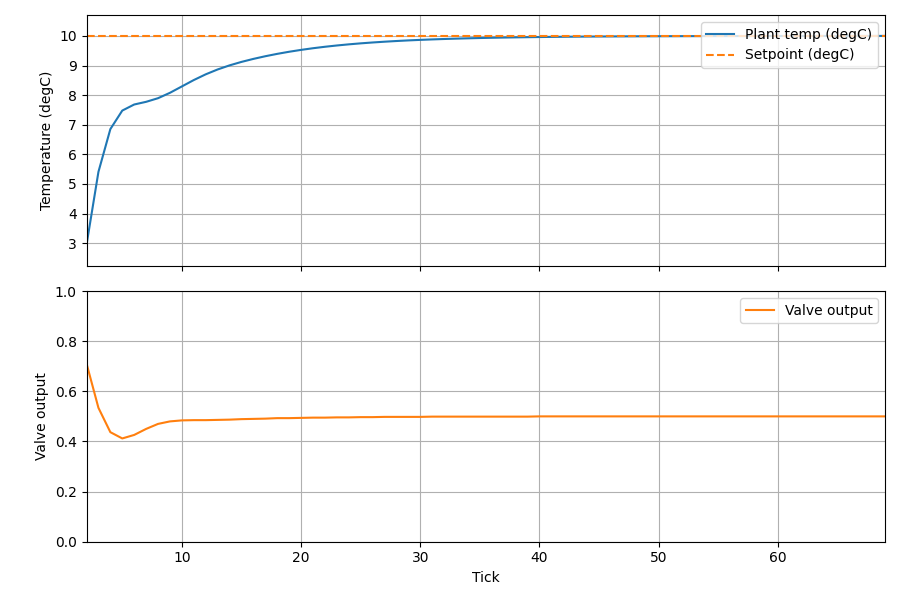
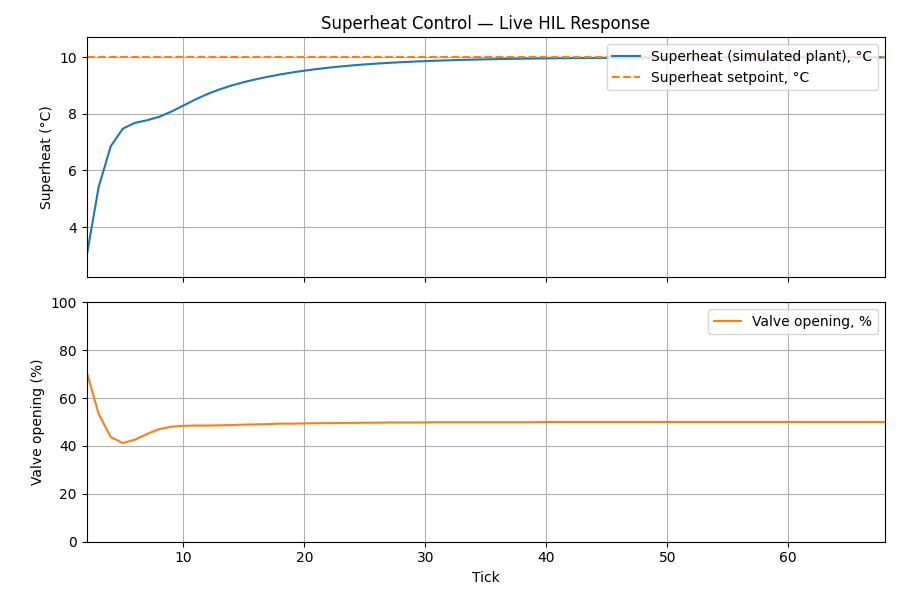
Label plots as superheat/percent, add architecture diagrams to README
Valve output is now shown as a 0-100% opening instead of the raw 0-1
value, and both plotting scripts label the plant/setpoint series as
superheat rather than generic temperature, matching what the
discretized plant model actually represents. Fixed a stale comment on
SETPOINT_DEGC that called it a placeholder when it has been a
superheat setpoint all along.

Added Mermaid diagrams to the README: one showing the two-board HIL
data flow, one showing Board 1's FreeRTOS task/queue structure.
Replaced the step response figure and caption with a fresh capture
using the updated plot labels.

diff --git a/tools/plot_live.py b/tools/plot_live.py
@@ -51,16 +51,17 @@ def main():
     setpoint = deque(maxlen=args.window)
 
     fig, (ax_temp, ax_valve) = plt.subplots(2, 1, sharex=True, figsize=(9, 6))
-    line_plant, = ax_temp.plot([], [], label="Plant temp (degC)")
-    line_setpoint, = ax_temp.plot([], [], "--", label="Setpoint (degC)")
-    ax_temp.set_ylabel("Temperature (degC)")
+    line_plant, = ax_temp.plot([], [], label="Superheat (simulated plant), °C")
+    line_setpoint, = ax_temp.plot([], [], "--", label="Superheat setpoint, °C")
+    ax_temp.set_ylabel("Superheat (°C)")
+    ax_temp.set_title("Superheat Control — Live HIL Response")
     ax_temp.legend(loc="upper right")
     ax_temp.grid(True)
 
-    line_valve, = ax_valve.plot([], [], color="tab:orange", label="Valve output")
-    ax_valve.set_ylabel("Valve output")
+    line_valve, = ax_valve.plot([], [], color="tab:orange", label="Valve opening, %")
+    ax_valve.set_ylabel("Valve opening (%)")
     ax_valve.set_xlabel("Tick")
-    ax_valve.set_ylim(0.0, 1.0)
+    ax_valve.set_ylim(0.0, 100.0)
     ax_valve.legend(loc="upper right")
     ax_valve.grid(True)
 
@@ -87,7 +88,7 @@ def main():
 
             ticks.append(tick)
             plant_temp.append(plant)
-            valve.append(val)
+            valve.append(val * 100.0)
             setpoint.append(sp)
             rows_added += 1
         return rows_added

diff --git a/tools/plot_from_log.py b/tools/plot_from_log.py
@@ -22,20 +22,20 @@ def main():
         for row in csv.DictReader(f):
             ticks.append(int(row["tick"]))
             plant_temp.append(float(row["plant_degC"]))
-            valve.append(float(row["valve"]))
+            valve.append(float(row["valve"]) * 100.0)
             setpoint.append(float(row["setpoint_degC"]))
 
     fig, (ax_temp, ax_valve) = plt.subplots(2, 1, sharex=True, figsize=(9, 6))
 
-    ax_temp.plot(ticks, plant_temp, label="Plant temp (degC)")
-    ax_temp.plot(ticks, setpoint, "--", label="Setpoint (degC)")
-    ax_temp.set_ylabel("Temperature (degC)")
+    ax_temp.plot(ticks, plant_temp, label="Superheat (simulated plant), °C")
+    ax_temp.plot(ticks, setpoint, "--", label="Superheat setpoint, °C")
+    ax_temp.set_ylabel("Superheat (°C)")
     ax_temp.set_title("Superheat Control HIL Step Response")
     ax_temp.legend(loc="upper right")
     ax_temp.grid(True)
 
-    ax_valve.plot(ticks, valve, color="tab:orange", label="Valve output")
-    ax_valve.set_ylabel("Valve output")
+    ax_valve.plot(ticks, valve, color="tab:orange", label="Valve opening, %")
+    ax_valve.set_ylabel("Valve opening (%)")
     ax_valve.set_xlabel("Tick")
     ax_valve.legend(loc="upper right")
     ax_valve.grid(True)

diff --git a/Superheat_Control/Core/Src/main.c b/Superheat_Control/Core/Src/main.c
@@ -52,7 +52,7 @@ typedef int32_t BME280_S32_t;
 #define PID_OUT_MAX   0.9
 
 #define LINK_RX_BUF_LEN   32
-#define SETPOINT_DEGC     10.0 /* placeholder until superheat is computed */
+#define SETPOINT_DEGC     10.0 /* superheat setpoint, degC */
 /* USER CODE END PD */
 
 /* Private macro -------------------------------------------------------------*/

diff --git a/README.md b/README.md
@@ -7,9 +7,9 @@ plant, closing a real control loop over a live inter-board link.
 
 ![Step response](docs/images/step_response.png)
 
-*Plant temperature converging to a 10°C setpoint under discrete PID control
-(Kp=0.1, Ki=0.015), with the corresponding valve output settling to steady
-state. Captured live from Board 1's UART debug stream — see
+*Simulated superheat converging to a 10°C setpoint under discrete PID control
+(Kp=0.1, Ki=0.015), with the corresponding valve opening (%) settling to
+steady state. Captured live from Board 1's UART debug stream — see
 [Plotting the control loop](#plotting-the-control-loop).*
 
 ## Architecture
@@ -27,6 +27,25 @@ through the plant model and replies with the resulting simulated temperature,
 which becomes the PID's measurement input. This makes the HIL loop a genuine
 closed loop — the controller board never sees the "real" plant, only what the
 second board computes and sends back over the wire.
+
+```mermaid
+flowchart LR
+    subgraph Board1["Board 1 — Controller"]
+        BME280["BME280\n(SPI1, logged only)"]
+        PID["Discrete PID\npid.c"]
+    end
+
+    subgraph Board2["Board 2 — Plant Simulator"]
+        Plant["Discrete plant model\nplant.c"]
+    end
+
+    BME280 -.->|"logged, not yet\nin control loop"| PID
+    PID -->|"valve_output\n(USART1, 115200)"| Plant
+    Plant -->|"simulated_temp\n(USART1, 115200)"| PID
+
+    Board1 -->|"CSV telemetry"| VCP1["ST-LINK VCP\n(USART2)"]
+    Board2 -->|"per-tick log"| VCP2["ST-LINK VCP\n(USART2)"]
+```
 
 ### Control loop
 
@@ -64,6 +83,56 @@ flags a complete line on `\n`, and immediately re-arms the next single-byte
 receive before returning. The main loop's `Link_ReceiveLine` just waits on
 that flag with a timeout, instead of touching bytes directly. This removed the
 CPU-availability race entirely rather than just improving its odds.
+
+## FreeRTOS task split (Board 1)
+
+Board 1 originally ran a single bare-metal superloop doing everything
+sequentially: BME280 read, UART link exchange, PID update, debug print. It now
+runs three FreeRTOS (CMSIS-RTOS v2) tasks instead, connected by two depth-1
+message queues that always hold the latest value:
+
+- **`SensorTask`** — reads the BME280 once per second, independent of the
+  control loop's timing.
+- **`LinkTask`** (`osPriorityAboveNormal`) — sends `valve_output` to Board 2,
+  waits for its reply, and pushes the result into `SimTempQueue`.
+- **`ControlTask`** — reads `SimTempQueue`, runs `PID_Update`, pushes the new
+  `valve_output` into `ValveOutputQueue`, and prints the CSV debug line.
+
+```mermaid
+flowchart TB
+    Sensor["SensorTask\n(osPriorityNormal)\nBME280 read, 1s"]
+    Link["LinkTask\n(osPriorityAboveNormal)\nUART exchange w/ Board 2"]
+    Control["ControlTask\n(osPriorityNormal)\nPID_Update + CSV log"]
+
+    ValveQ[["ValveOutputQueue\n(depth 1)"]]
+    TempQ[["SimTempQueue\n(depth 1)"]]
+
+    Control -->|"valve_output"| ValveQ
+    ValveQ -->|"valve_output"| Link
+    Link -->|"simulated_temp"| TempQ
+    TempQ -->|"simulated_temp"| Control
+
+    Sensor -.->|"latest_bme280_degC\n(logged only)"| Control
+```
+
+Two issues surfaced while bringing this up, both worth knowing if you extend
+this further:
+
+- **Missing NVIC priority grouping.** `HAL_MspInit` never called
+  `HAL_NVIC_SetPriorityGrouping(NVIC_PRIORITYGROUP_4)`. FreeRTOS's Cortex-M
+  port assumes 4 preemption-priority bits; running on the CPU's reset default
+  silently broke interrupt masking, producing zero serial output with no
+  error of any kind.
+- **Stack overflow in `LinkTask`.** `sscanf`/`snprintf` float formatting in
+  newlib-nano is stack-heavy, more than bare-metal's single large shared stack
+  ever made obvious. `configCHECK_FOR_STACK_OVERFLOW` and a
+  `vApplicationStackOverflowHook` were added to surface this instead of
+  silently corrupting memory; `LinkTask`/`ControlTask` are now sized to 512
+  words, `SensorTask` to 256.
+
+`Link_ReceiveLine`'s wait loop also switched from a bare spin to `osDelay(1)`
+per iteration — `LinkTask` runs at the highest priority, so a non-yielding
+spin there starved the other two tasks entirely after their first cycle.
 
 ## Repository layout
 
@@ -123,6 +192,6 @@ python tools/plot_from_log.py tools/logs/run_20260926_151558.csv --out step_resp
 - [x] Two-board HIL wiring and UART inter-board link
 - [x] Interrupt-driven UART reception (see above)
 - [x] Live plotting / CSV logging of the control loop
+- [x] FreeRTOS task split on Board 1 (sensor read / link / control loop)
 - [ ] Superheat computation from real sensor data (BME280 is currently logged
       but not yet part of the control loop)
-- [ ] FreeRTOS task split (sensor read / link / control loop)
